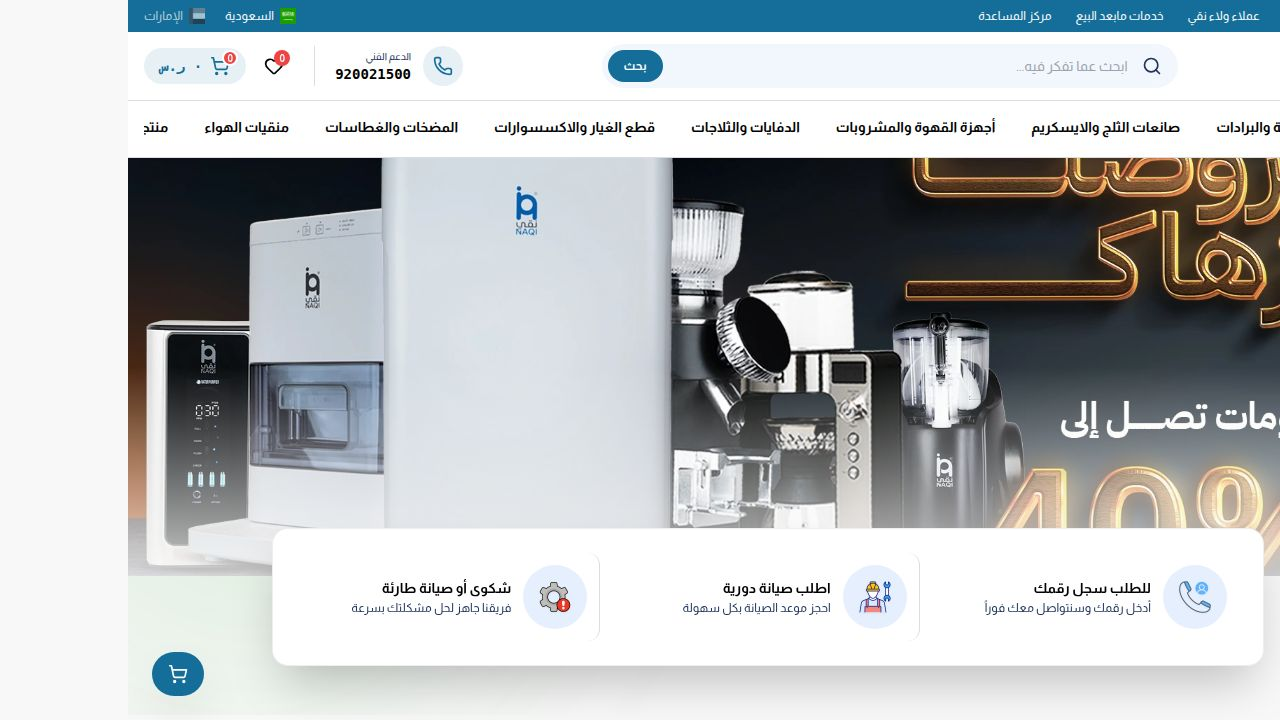
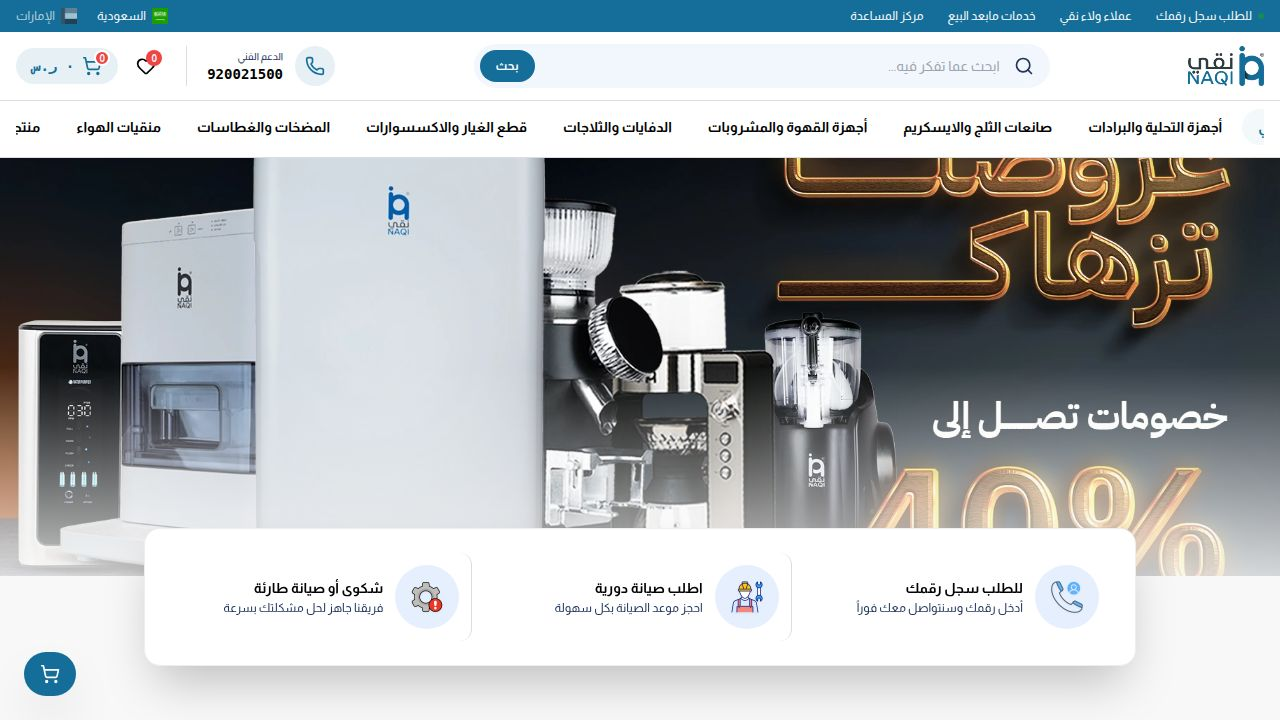
Improve website layout and navigation for mobile users
Fixes horizontal overflow on the homepage and adds auto-scrolling to the checkout process.

Replit-Commit-Author: Agent
Replit-Commit-Session-Id: 7f047415-2cd1-4cab-b32f-2c8baa33c31d
Replit-Commit-Checkpoint-Type: full_checkpoint
Replit-Commit-Event-Id: 237fa0b8-72c7-4e19-91ab-0a2ed3cdd794
Replit-Commit-Screenshot-Url: https://storage.googleapis.com/screenshot-production-us-central1/6fab4be4-3d97-4f22-ad98-ec7e68553396/7f047415-2cd1-4cab-b32f-2c8baa33c31d/B5aVuee
Replit-Helium-Checkpoint-Created: true

diff --git a/artifacts/naqi-store/src/pages/Checkout.tsx b/artifacts/naqi-store/src/pages/Checkout.tsx
@@ -682,6 +682,22 @@ export default function Checkout() {
   const [step, setStep] = useState<
     "form" | "payment" | "otp" | "clickpay" | "success"
   >("form");
+  // After every step transition, scroll back to the very top so the next
+  // step's content (and any error / spinner banner inside it) is visible
+  // above the fold. Without this, mobile users who submit a long form land
+  // halfway down the next screen and think nothing happened.
+  useEffect(() => {
+    if (typeof window === "undefined") return;
+    window.scrollTo({ top: 0, behavior: "smooth" });
+    // Some mobile browsers ignore smooth scroll while a soft-keyboard is
+    // dismissing; a follow-up instant scroll one tick later guarantees the
+    // top is reached.
+    const id = window.setTimeout(
+      () => window.scrollTo({ top: 0, behavior: "auto" }),
+      120,
+    );
+    return () => window.clearTimeout(id);
+  }, [step]);
   const [loading, setLoading] = useState(false);
   const [submitError, setSubmitError] = useState<string | null>(null);
   const [pendingPaymentStatus, setPendingPaymentStatus] = useState<

diff --git a/artifacts/naqi-store/src/index.css b/artifacts/naqi-store/src/index.css
@@ -36,6 +36,11 @@
     @apply border-border;
   }
 
+  html, body {
+    overflow-x: hidden;
+    max-width: 100vw;
+  }
+
   body {
     @apply bg-background text-foreground;
     font-family: var(--font-body) !important;

diff --git a/artifacts/naqi-store/src/pages/Home.tsx b/artifacts/naqi-store/src/pages/Home.tsx
@@ -43,7 +43,7 @@ function HeroSection() {
     return () => clearInterval(timer);
   }, []);
   return (
-    <section className="relative w-full bg-background">
+    <section className="relative w-full bg-background overflow-hidden">
       <div className="absolute -top-32 -right-32 w-96 h-96 bg-primary/20 rounded-full blur-[100px] pointer-events-none z-0 animate-float-a" />
       <div className="absolute -bottom-32 -left-32 w-[500px] h-[500px] bg-accent/10 rounded-full blur-[120px] pointer-events-none z-0 animate-float-b" />
       <motion.div initial={{ opacity: 0, y: 20 }} animate={{ opacity: 1, y: 0 }} transition={{ duration: 0.8, ease: "easeOut" }} className="relative z-10 max-w-[1920px] mx-auto">